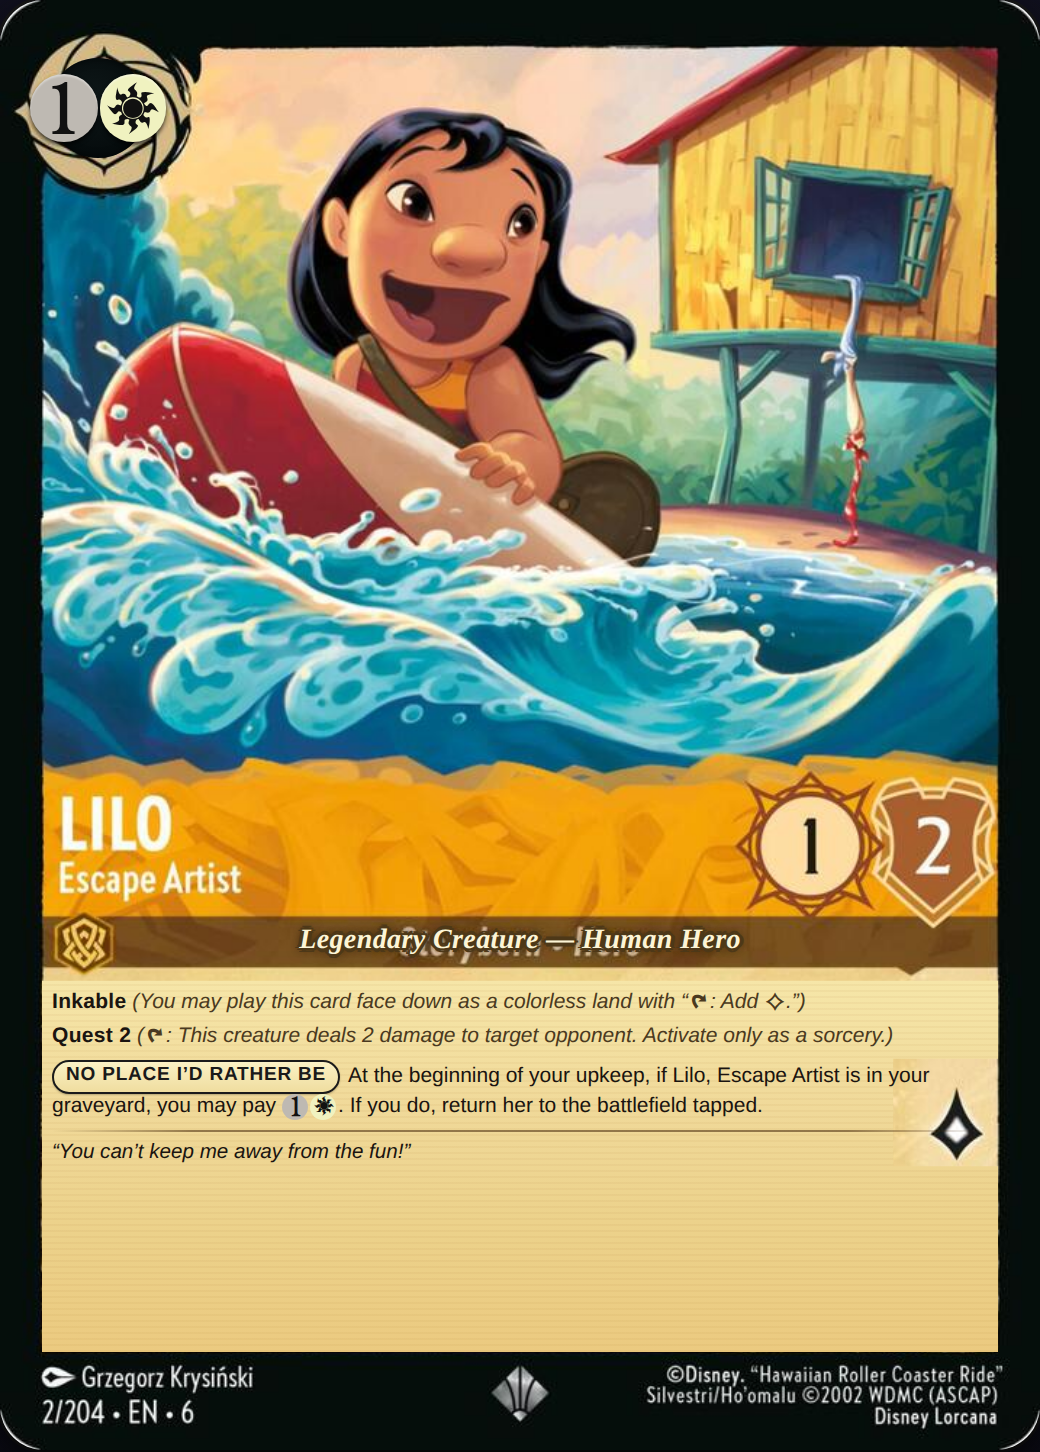
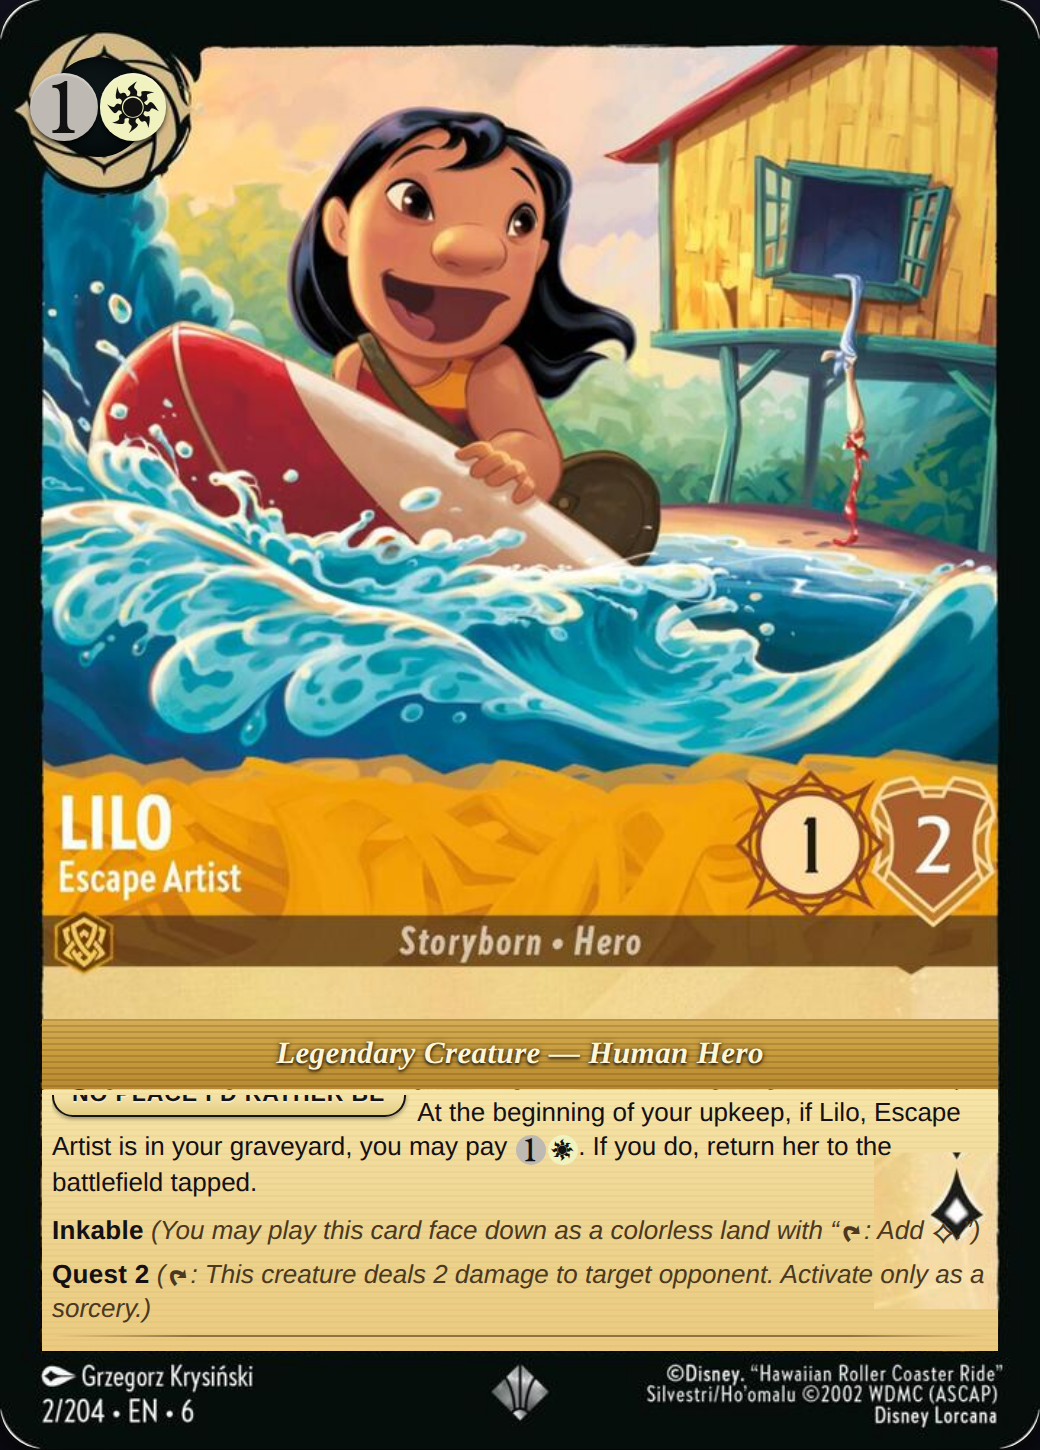
Bigger rules text, opaque type-line patch, source-style NO PLACE pill
Improvements based on feedback:
- Rules text bumped from 10.5px to 13px so it reads cleanly
- Type-line "Legendary Creature - Human Hero" now sits on an opaque
  gold gradient patch (with subtle horizontal stripes) covering the
  source's Storyborn line, instead of relying on a text-shadow halo
- "NO PLACE I'D RATHER BE" pill is recreated as a floated element
  that protrudes upward through the rules-box top edge, with body
  text wrapping around it - matches the original Lorcana layout
- Quest 2 reminder text correctly says "Activate only as a sorcery"
- Lore-pip clip-path notch widened to keep both source diamonds
  visible (mask local y 24-84% instead of 20-65%)

Position calibration done by sampling source pixels (find_storyborn:
white text at y 71.7-73.8%) and verifying with red-overlay debug
markers that the patch lands exactly there.

https://claude.ai/code/session_01Abo7LK1gvKv9LQ9XN7YBtw

diff --git a/lilo_magic_overlay.html b/lilo_magic_overlay.html
@@ -94,40 +94,46 @@
   }
 
   /* ===== TYPE LINE — replaces "Storyborn • Hero" =====
-     No mask box (which would create a visible band). Instead, the new italic
-     white text has a wide multi-layer dark-gold halo so it both reads cleanly
-     against the wood-grain AND obliterates the original characters underneath
-     it (the new text is much longer than "Storyborn • Hero", so its footprint
-     fully covers the original). */
+     Opaque "patch" of clean wood-grain sampled from y=60% (above the original
+     text) and re-laid at y=64% to fully cover Storyborn. Because the patch
+     uses the source image itself, the wood-grain striping flows continuously
+     into the surrounding band — no visible rectangle. */
+  /* Wood-grain gold band that fully covers the original "Storyborn • Hero".
+     Storyborn sits at card y 71-73%, so the patch covers that range.
+     The patch uses a multi-stop horizontal gradient + subtle stripes to mimic
+     the gold name-plate wood texture. */
+  .type-patch {
+    top: 510px;
+    left: 4%;
+    right: 4%;
+    height: 35px;
+    background:
+      repeating-linear-gradient(to bottom,
+        rgba(75, 50, 18, 0.2) 0px, rgba(75, 50, 18, 0.2) 1px,
+        transparent 1px, transparent 3px),
+      linear-gradient(to bottom,
+        #d6ad55 0%,
+        #c89c3c 50%,
+        #b88930 100%);
+    z-index: 5;
+  }
   .type-line {
-    top: 64.0%;
+    top: 510px;
     left: 0;
     right: 0;
-    text-align: center;
+    height: 35px;
+    display: flex;
+    align-items: center;
+    justify-content: center;
     font-style: italic;
     font-family: 'Georgia', 'Adobe Garamond Pro', serif;
     font-weight: 600;
-    font-size: 14px;
+    font-size: 15.5px;
     color: #fdf5d6;
     letter-spacing: 0.2px;
-    line-height: 1;
     text-shadow:
-      /* heavy 1-2px dark outline that knocks out the original glyphs */
-       1px  0   0 #4d3818,
-      -1px  0   0 #4d3818,
-       0    1px 0 #4d3818,
-       0   -1px 0 #4d3818,
-       1px  1px 0 #4d3818,
-      -1px -1px 0 #4d3818,
-       1px -1px 0 #4d3818,
-      -1px  1px 0 #4d3818,
-       2px  0   0 #4d3818,
-      -2px  0   0 #4d3818,
-       0    2px 0 #4d3818,
-       0   -2px 0 #4d3818,
-      /* soft outer glow that smudges any remaining seam */
-      0 0 4px rgba(40, 25, 5, 0.85),
-      0 0 7px rgba(40, 25, 5, 0.65);
+      0 1px 1.5px rgba(20, 12, 4, 0.9),
+      0 0 3px rgba(40, 25, 8, 0.7);
     z-index: 6;
   }
 
@@ -135,7 +141,7 @@
      gradient that matches the source rules box. Notches the lore badge so it
      stays visible. ===== */
   .rules-mask {
-    top: 67.6%;
+    top: 75.2%;
     left: 4.0%;
     right: 4.0%;
     bottom: 6.8%;
@@ -150,71 +156,82 @@
         #f0d999 35%,
         #ecd28b 65%,
         #ebca80 100%);
-    /* notch the lore badge area (the diamond shapes on the right side of the
-       rules box; in source they sit at roughly y 73-80%, x 88-94%, which in
-       local mask coords (top 67.6%, height 25.6%) is y 21-48%, x 91-100%) */
+    /* Notch out the lore-pip column on the right (source has TWO stacked
+       diamonds). Mask spans card y 75.2-93.2% = 18% tall. Pips occupy
+       card y 80-90% = local y 27-82%. */
     clip-path: polygon(
       0% 0%, 100% 0%,
-      100% 21%, 89% 21%,
-      89% 50%, 100% 50%,
+      100% 24%, 87% 24%,
+      87% 84%, 100% 84%,
       100% 100%, 0% 100%
     );
     z-index: 2;
   }
 
-  /* The "NO PLACE I'D RATHER BE" pill, recreated to match the original */
+  /* "NO PLACE I'D RATHER BE" pill — protrudes upward through the rules-box
+     top edge exactly like the source card. Floated left so the body text of
+     the named ability wraps to its right on line 1 and underneath it on the
+     subsequent lines. */
   .pill {
-    display: inline-block;
-    background: linear-gradient(to bottom, #fbf1c5, #efdd9f);
-    border: 1.4px solid #1a1a1a;
+    float: left;
+    margin: -10px 6px 2px 0;
+    padding: 2px 9px 3px 9px;
+    background: linear-gradient(to bottom, #fff5d0 0%, #f1dea0 60%, #e3cd83 100%);
+    border: 1.6px solid #141414;
     border-radius: 999px;
-    padding: 0 6px 1px 6px;
     font-family: 'Helvetica Neue', 'Arial', sans-serif;
     font-weight: 800;
-    font-size: 9.5px;
-    letter-spacing: 0.4px;
-    color: #1a1a1a;
-    line-height: 1.5;
-    vertical-align: 1px;
-    margin-right: 4px;
+    font-size: 11.5px;
+    letter-spacing: 0.45px;
+    color: #141414;
+    line-height: 1.25;
     white-space: nowrap;
-    box-shadow: 0 0.5px 1px rgba(0,0,0,0.25);
+    box-shadow:
+      0 1px 2px rgba(0,0,0,0.35),
+      inset 0 1px 0 rgba(255,255,255,0.55);
+    text-shadow: 0 1px 0 rgba(255,255,255,0.45);
   }
 
   .rules-content {
-    top: 68.2%;
+    top: 75.5%;
     left: 5%;
     right: 5%;
     bottom: 7%;
     font-family: 'Helvetica Neue', 'Arial', sans-serif;
-    font-size: 10.5px;
-    color: #1a1410;
-    line-height: 1.30;
-    z-index: 3;
+    font-size: 13px;
+    color: #141014;
+    line-height: 1.32;
+    z-index: 7; /* above type-patch so the protruding pill is visible */
     overflow: hidden;
   }
-  .rules-content p { margin-bottom: 4px; }
+  .rules-content p { margin-bottom: 5px; }
   .rules-content p:last-child { margin-bottom: 0; }
+  .rules-content p.named { margin-bottom: 7px; overflow: hidden; }
+  .rules-content p.named::after {
+    content: "";
+    display: block;
+    clear: both;
+  }
   .kw {
     font-weight: 800;
-    color: #1a1410;
+    color: #141014;
     letter-spacing: 0.15px;
   }
   .reminder { font-style: italic; color: #4a3920; }
   /* inline mana symbols inside rules text */
-  .rules-content .ms { font-size: 10px; vertical-align: -1px; margin: 0 0.5px; }
-  .rules-content .ms.ms-cost { font-size: 10px; }
+  .rules-content .ms { font-size: 11.5px; vertical-align: -2px; margin: 0 0.5px; }
+  .rules-content .ms.ms-cost { font-size: 11.5px; }
 
   .flavor-divider {
     height: 1px;
     background: linear-gradient(to right,
       transparent, rgba(70,40,10,0.55) 15%, rgba(70,40,10,0.55) 85%, transparent);
-    margin: 4px 0;
+    margin: 5px 0;
   }
   .flavor {
     font-style: italic;
-    color: #1a1410;
-    font-size: 10.3px;
+    color: #141014;
+    font-size: 11.8px;
     line-height: 1.3;
   }
 
@@ -259,12 +276,16 @@
       <i class="ms ms-w ms-cost ms-shadow"></i>
     </div>
 
-    <!-- Type line: italic text with dark halo replacing "Storyborn • Hero" -->
+    <!-- Type line: opaque image-patch + italic text replacing "Storyborn • Hero" -->
+    <div class="ovl type-patch"></div>
     <div class="ovl type-line">Legendary Creature — Human Hero</div>
 
-    <!-- Rules text: cream-gradient mask + MTG-templated content on top -->
+    <!-- Rules text: cream-gradient mask (with notch for lore pips) + content -->
     <div class="ovl rules-mask"></div>
     <div class="ovl rules-content">
+      <p class="named">
+        <span class="pill">NO PLACE I&rsquo;D RATHER BE</span>At the beginning of your upkeep, if Lilo, Escape Artist is in your graveyard, you may pay <i class="ms ms-1 ms-cost"></i><i class="ms ms-w ms-cost"></i>. If you do, return her to the battlefield tapped.
+      </p>
       <p>
         <span class="kw">Inkable</span>
         <span class="reminder">(You may play this card face down as a colorless land with &ldquo;<i class="ms ms-tap"></i>: Add <i class="ms ms-c"></i>.&rdquo;)</span>
@@ -272,9 +293,6 @@
       <p>
         <span class="kw">Quest 2</span>
         <span class="reminder">(<i class="ms ms-tap"></i>: This creature deals 2 damage to target opponent. Activate only as a sorcery.)</span>
-      </p>
-      <p>
-        <span class="pill">NO PLACE I&rsquo;D RATHER BE</span>At the beginning of your upkeep, if Lilo, Escape Artist is in your graveyard, you may pay <i class="ms ms-1 ms-cost"></i><i class="ms ms-w ms-cost"></i>. If you do, return her to the battlefield tapped.
       </p>
       <div class="flavor-divider"></div>
       <p class="flavor">&ldquo;You can&rsquo;t keep me away from the fun!&rdquo;</p>

diff --git a/screenshot.js b/screenshot.js
@@ -34,7 +34,12 @@ const path = require('path');
 
   const target = await page.$(cropTo);
   if (target) {
-    await target.screenshot({ path: out.replace(/\.png$/, '_card.png') });
+    const box = await target.boundingBox();
+    console.log('clip box:', box);
+    await page.screenshot({
+      path: out.replace(/\.png$/, '_card.png'),
+      clip: { x: box.x, y: box.y, width: box.width, height: box.height },
+    });
   }
   await page.screenshot({ path: out, fullPage: true });
 
